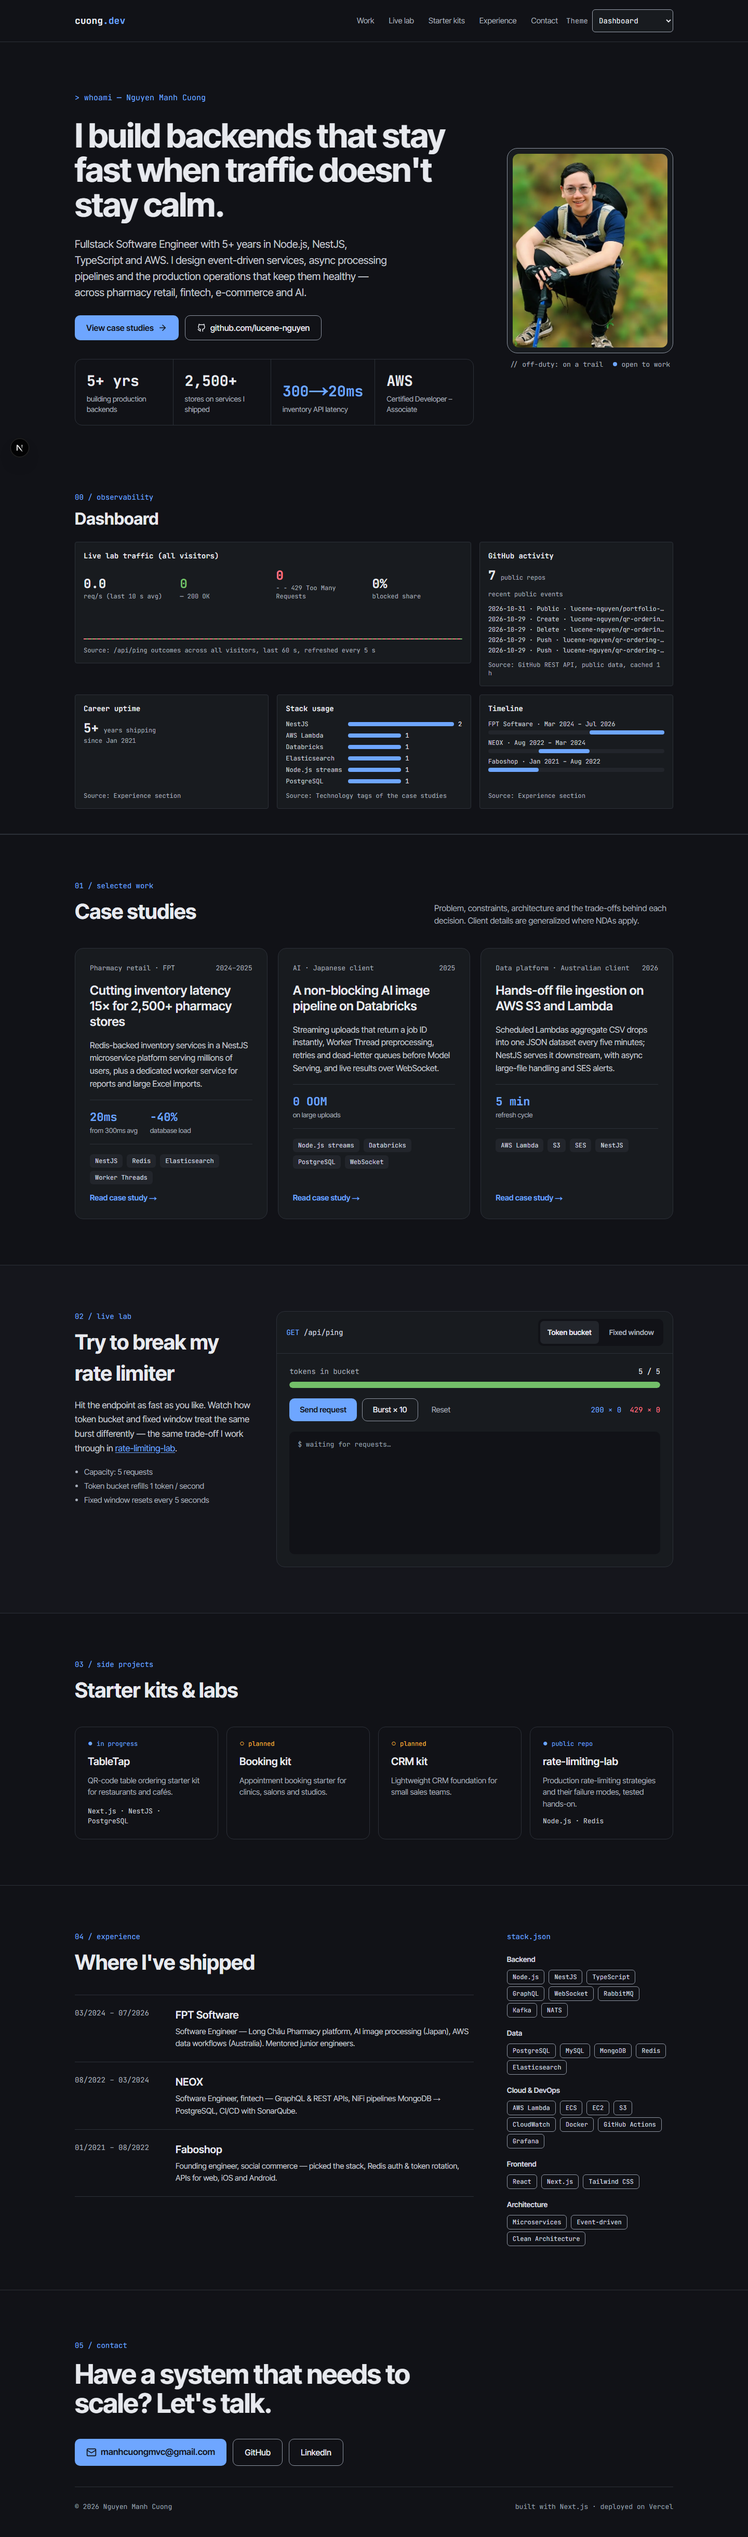
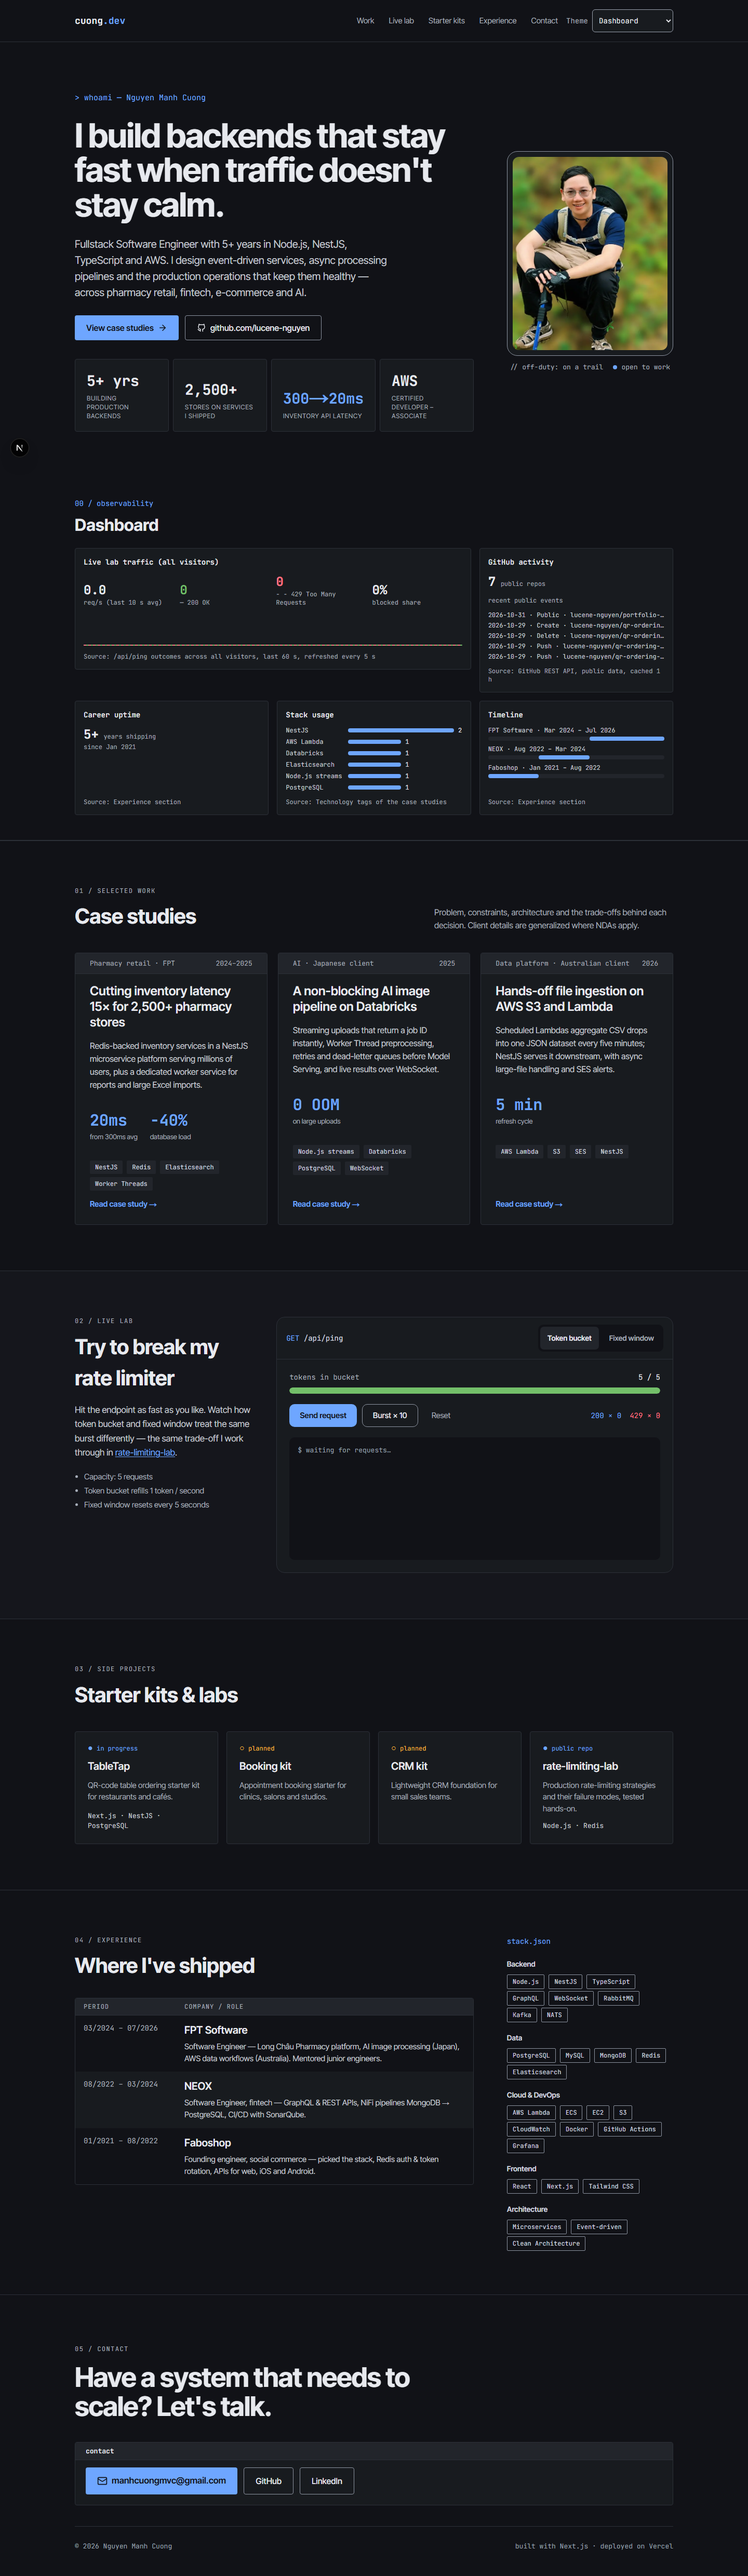
feat(ui): dashboard restyle - panels with title bars, stat panels, experience table, contact panel; screenshots

diff --git a/themes/dashboard/dashboard.css b/themes/dashboard/dashboard.css
@@ -1,0 +1,113 @@
+/* Grafana-panel language for the shared sections (design-system/portfolio-v3/pages/dashboard.md › Layout).
+   Decorative labels have empty alt text. */
+[data-theme="dashboard"] [data-part="eyebrow"] {
+  text-transform: uppercase;
+  letter-spacing: 0.12em;
+  font-size: 12px;
+  color: var(--text-muted);
+}
+
+/* Case studies: panels with a title bar. */
+[data-theme="dashboard"] [data-part="case-card"] {
+  border-radius: 4px;
+}
+[data-theme="dashboard"] [data-part="case-meta"] {
+  /* Edge to edge: negative margin = the card's p-7 (1.75rem) padding. */
+  margin: -1.75rem -1.75rem 0;
+  padding: 10px 1.75rem;
+  border-bottom: 1px solid var(--border);
+  border-radius: 3px 3px 0 0;
+  background: var(--surface2);
+}
+[data-theme="dashboard"] [data-part="case-metrics"] {
+  border: 0;
+}
+[data-theme="dashboard"] [data-part="case-metrics"] dd {
+  font-size: 30px;
+}
+[data-theme="dashboard"] [data-part="case-card"] ul span,
+[data-theme="dashboard"] [data-part="stack"] ul span {
+  border-radius: 2px;
+}
+
+/* Hero stats: one stat panel each. */
+[data-theme="dashboard"] [data-part="stats"] {
+  gap: 8px;
+  border: 0;
+  overflow: visible;
+}
+[data-theme="dashboard"] [data-part="stat"] {
+  border: 1px solid var(--border) !important;
+  border-radius: 4px;
+  background: var(--surface);
+}
+[data-theme="dashboard"] [data-part="stat"] dt {
+  text-transform: uppercase;
+  letter-spacing: 0.06em;
+  font-size: 12px;
+}
+
+/* Experience: table (header row from md; stacked rows below). */
+[data-theme="dashboard"] [data-part="roles"] {
+  border: 1px solid var(--border);
+  border-radius: 4px;
+  overflow: hidden;
+}
+/* Header row: "Period" over the date column, "Company / role" over the 170px + 24px-gap offset content. */
+@media (min-width: 768px) {
+  [data-theme="dashboard"] [data-part="roles"] {
+    position: relative;
+  }
+  [data-theme="dashboard"] [data-part="roles"]::before,
+  [data-theme="dashboard"] [data-part="roles"]::after {
+    font: 12px var(--font-mono);
+    letter-spacing: 0.08em;
+    color: var(--text-muted);
+  }
+  [data-theme="dashboard"] [data-part="roles"]::before {
+    content: "PERIOD" / "";
+    display: block;
+    padding: 8px 16px;
+    border-bottom: 1px solid var(--border);
+    background: var(--surface2);
+  }
+  [data-theme="dashboard"] [data-part="roles"]::after {
+    content: "COMPANY / ROLE" / "";
+    position: absolute;
+    top: 8px;
+    left: calc(16px + 170px + 24px);
+  }
+}
+[data-theme="dashboard"] [data-part="role"] {
+  padding: 14px 16px !important;
+  border-width: 0 !important;
+}
+[data-theme="dashboard"] [data-part="role"]:nth-child(even) {
+  background: var(--surface);
+}
+
+/* Contact: titled panel. */
+[data-theme="dashboard"] [data-part="contact-actions"] {
+  padding: 48px 20px 20px;
+  position: relative;
+  border: 1px solid var(--border);
+  border-radius: 4px;
+  background: var(--surface);
+}
+[data-theme="dashboard"] [data-part="contact-actions"]::before {
+  content: "contact" / "";
+  position: absolute;
+  inset: 0 0 auto;
+  padding: 8px 20px;
+  border-bottom: 1px solid var(--border);
+  background: var(--surface2);
+  font: 600 13px var(--font-mono);
+  color: var(--text);
+}
+[data-theme="dashboard"] [data-part="button"] {
+  border-radius: 4px;
+}
+[data-theme="dashboard"] [data-part="kit"] > * {
+  border-radius: 4px;
+  background: var(--surface);
+}

diff --git a/e2e/dashboard.spec.ts b/e2e/dashboard.spec.ts
@@ -70,3 +70,30 @@ test("axe clean; 375px", async ({ page }) => {
   );
   expect(overflow).toBeLessThanOrEqual(0);
 });
+
+test("shared sections are restyled as panels, not just recolored", async ({ page }) => {
+  await page.goto("/?theme=dashboard");
+  await expect(page.getByTestId("panel-traffic")).toBeVisible();
+  await expect(page.locator('[data-part="case-meta"]').first()).toHaveCSS(
+    "background-color",
+    "rgb(34, 37, 43)",
+  );
+  await expect(page.locator('[data-part="stat"]').first()).toHaveCSS(
+    "border-top-left-radius",
+    "4px",
+  );
+  expect(
+    await page
+      .locator('[data-part="roles"]')
+      .evaluate((el) => getComputedStyle(el, "::before").content),
+  ).toContain("PERIOD");
+  await expect(page.locator('[data-part="role"]').nth(1)).toHaveCSS(
+    "background-color",
+    "rgb(24, 27, 31)",
+  );
+  expect(
+    await page
+      .locator('[data-part="contact-actions"]')
+      .evaluate((el) => getComputedStyle(el, "::before").content),
+  ).toContain("contact");
+});

diff --git a/e2e/checklist.spec.ts b/e2e/checklist.spec.ts
@@ -2,7 +2,7 @@ import AxeBuilder from "@axe-core/playwright";
 import { expect, test, type Page } from "@playwright/test";
 
 // ui-ux-pro-max pre-delivery checklist, the parts that can be measured (UI round 1, restyled themes).
-const THEMES = ["blueprint", "pixel", "cyberpunk", "editorial", "night-terminal"];
+const THEMES = ["blueprint", "pixel", "cyberpunk", "editorial", "night-terminal", "dashboard"];
 
 const overflow = (page: Page) =>
   page.evaluate(() => document.documentElement.scrollWidth - document.documentElement.clientWidth);

diff --git a/app/layout.tsx b/app/layout.tsx
@@ -13,6 +13,7 @@ import "./globals.css";
 import "@/themes/anime/anime.css";
 import "@/themes/blueprint/blueprint.css";
 import "@/themes/cyberpunk/cyberpunk.css";
+import "@/themes/dashboard/dashboard.css";
 import "@/themes/editorial/editorial.css";
 import "@/themes/neo-brutalism/neo.css";
 import "@/themes/night-terminal/night-terminal.css";

diff --git a/design-system/portfolio-v3/pages/dashboard.md b/design-system/portfolio-v3/pages/dashboard.md
@@ -38,3 +38,19 @@
 - GitHub activity — GitHub REST API public data, cached 1 h (`/api/github`).
 - Career uptime, Stack usage, Timeline — derived from `content/` (experience, case-study tags).
 - Unavailable APIs: a warning line, last known values kept, other panels unaffected.
+
+## Layout
+> ui-ux-pro-max (UI round 1): `"analytics dashboard data" --domain landing`, `"dashboard panels data density" --domain ux` (bulk actions / autoplay: not applicable) and retry `"data table readability" --domain ux`.
+
+**Section order:** Hero → Dashboard panels (live metrics) → Case studies → Live lab → Starter kits → Experience + stack → Contact.
+- Verified: landing **Real-Time / Operations** — "Hero (product + live preview or status) > Key metrics > How it works > CTA": the live panels sit right under the hero, then the work.
+- Verified (ux): tables become stacked rows on small screens; numbers formatted.
+- Rejected: **Enterprise Gateway** (solutions by industry/role, client logos) — a sales funnel, not a portfolio; bulk actions (no data entry here).
+
+**How the shared sections look** (Grafana panels)
+- Eyebrows → panel-row labels: uppercase, letter-spaced, muted.
+- Case study cards → **panels**: 4px radius, title bar (`surface2`, rule below) holding the meta line; metrics as large stat values; tags as small labels.
+- Hero stats → **stat panels**: one panel per stat with gaps, value large, label small uppercase.
+- Experience → **table**: header row (Period · Company / role) on wide screens, zebra rows, stacked rows on mobile.
+- Contact → **panel** with a "contact" title bar above the actions.
+- Starter kits → panels (4px radius, `border`).

diff --git a/docs/ui-round-1.md b/docs/ui-round-1.md
@@ -14,7 +14,7 @@ Per theme (item 2): ui-ux-pro-max `--domain landing` + `--domain ux` → "## Lay
 | 2 cyberpunk | done | `fix/ui-cyberpunk` |
 | 2 editorial | done | `fix/ui-editorial` |
 | 2 night-terminal | done | `fix/ui-night-terminal` |
-| 2 dashboard | todo | `fix/ui-dashboard` |
+| 2 dashboard | done | `fix/ui-dashboard` |
 | 2 ide | todo | `fix/ui-ide` |
 | 2 docs | todo | `fix/ui-docs` |
 | 2 bento | todo | `fix/ui-bento` |
